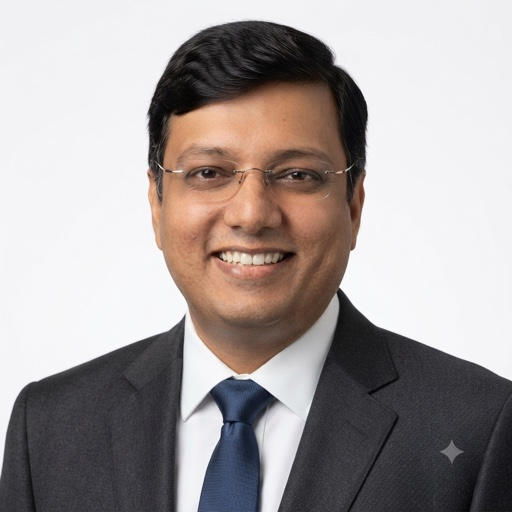
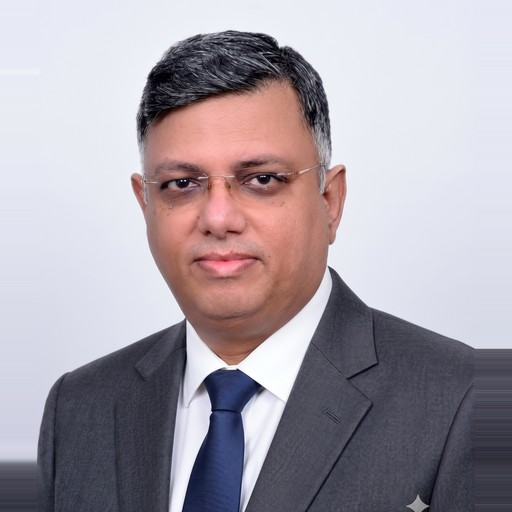
leadership image part 2

diff --git a/outputs/ai-landing-v1/src/data/siteContent.js b/outputs/ai-landing-v1/src/data/siteContent.js
@@ -347,13 +347,20 @@ export const leadership = {
     { name: 'Shankar Rachakonda',          role: 'CEO',                                                                                     photo: '/images/leadership/shankar-rachakonda.jpg' },
     { name: 'Sandeep Sawhney',             role: 'Chief Growth Officer',                                                                     photo: '/images/leadership/sandeep-sawhney.jpg' },
     { name: 'Srinivas Chamarthi',          role: 'SVP & Business Head - Commercial Markets',                                                photo: '/images/leadership/srinivas-chamarthi.jpg' },
-    { name: 'Srinivas Punnamaraju',        role: 'Senior Vice President, State, Local and Education Markets',                                photo: '/images/leadership/srinivas-punnamaraju.jpg' },
-    { name: 'Gil Tadmor',                  role: 'Senior Vice President, Federal Market',                                                    photo: '/images/leadership/gil-tadmor.jpg' },
-    { name: 'Nari Vemuru',                 role: 'Senior Vice President, Client Operations',                                                 photo: '/images/leadership/nari-vemuru.jpg' },
-    { name: 'Balaram Dandu',               role: 'Senior Vice President, Corporate Operations',                                              photo: '/images/leadership/balaram-dandu.jpg' },
-    { name: 'Prafull Kumar',               role: 'Vice President | Global Head of AI & Digital Transformation',                             photo: '/images/leadership/prafull-kumar.jpg' },
-    { name: 'Arun Srinivasan Thiruvengadam', role: 'Executive Director, Solutions and Business Development',                                 photo: '/images/leadership/arun-thiruvengadam.jpg' },
-    { name: 'Vish Tatavarthy',             role: 'Senior Director, Delivery and Growth (DoW and HHS)',                                       photo: '/images/leadership/vish-tatavarthy.jpg' },
+    { name: 'Srinivas Punnamaraju',        role: 'Senior Vice President - State, Local and Education Markets',                                photo: '/images/leadership/srinivas-punnamaraju.jpg' },
+    { name: 'Gil Tadmor',                  role: 'Senior Vice President - Tracklynk',                                                    photo: '/images/leadership/gil-tadmor.jpg' },
+    { name: 'Nari Vemuru',                 role: 'Senior Vice President - Client Operations and Federal Market',                                                 photo: '/images/leadership/nari-vemuru.jpg' },
+    { name: 'Balaram Dandu',               role: 'Senior Vice President - Corporate Operations',                                              photo: '/images/leadership/balaram-dandu.jpg' },
+    { name: 'Prafull Kumar',               role: 'Vice President - Global Head of AI & Digital Transformation',                             photo: '/images/leadership/prafull-kumar.jpg' },
+    { name: 'Arun Srinivasan Thiruvengadam', role: 'Executive Director - Solutions and Business Development',                                 photo: '/images/leadership/arun-thiruvengadam.jpg' },
+    // Designations pending — the card omits the role line while `role` is empty
+    { name: 'Lam Huynh',                   role: 'Practice Director - Digital Experience', photo: '/images/leadership/lam-huynh.jpg?v=2' },
+    { name: 'Elizabeth A. Holland',        role: 'UX Research Manager - Digital Experience', photo: '/images/leadership/elizabeth-holland.jpg?v=2' },
+    // Placeholders — no photo yet; the card shows a silhouette while `photo` is null
+    { name: 'Umarani Rudravarjula',        role: 'Practice Director - Applications Development and Integration', photo: null },
+    { name: 'Rama Kandarpa',               role: 'Practice Director - Data Engineering', photo: '/images/leadership/rama-kandarpa.jpg' },
+    { name: 'Alek Nedelkovski',            role: 'Manager - Learning and Development', photo: '/images/leadership/alek-nedelkovski.jpg' },
+    { name: 'Subba Rao Kambhampalli',      role: 'Associate Director - Applications Development and Integration',                                                                    photo: null },
   ],
 }
 

diff --git a/outputs/ai-landing-v1/src/components/home/Leadership.jsx b/outputs/ai-landing-v1/src/components/home/Leadership.jsx
@@ -1,5 +1,6 @@
 import { useRef } from 'react'
 import { motion, useInView } from 'framer-motion'
+import { User } from 'lucide-react'
 import { leadership } from '../../data/siteContent.js'
 
 const COLS = 5
@@ -48,9 +49,9 @@ export default function Leadership() {
         </motion.div>
 
         {/* ── Portrait grid ── */}
-        {/* 2 and 5 are the only counts that divide 10 evenly — no orphan row
-            at any breakpoint, and the portraits never get cramped */}
-        <div className="grid grid-cols-2 lg:grid-cols-5 gap-4 md:gap-5 lg:gap-6">
+        {/* 2-up below lg, 5-up from lg. Flex rather than grid so a short last
+            row (e.g. 12 people = 5 + 5 + 2) sits centred instead of hanging left */}
+        <div className="flex flex-wrap justify-center gap-4 md:gap-5 lg:gap-6">
           {leadership.people.map((person, i) => (
             <motion.article
               key={person.name}
@@ -62,19 +63,27 @@ export default function Leadership() {
                 // Ripple across each row, then down to the next
                 delay: 0.12 + (i % COLS) * 0.07 + Math.floor(i / COLS) * 0.12,
               }}
-              className="portrait-card"
+              className="portrait-card !h-auto w-[calc((100%-1rem)/2)] md:w-[calc((100%-1.25rem)/2)] lg:w-[calc((100%-6rem)/5)]"
             >
               <div className="portrait-frame">
-                <img
-                  src={person.photo}
-                  alt={`${person.name}, ${person.role}`}
-                  width={512}
-                  height={512}
-                  loading="lazy"
-                  decoding="async"
-                  className="portrait-img"
-                />
-                <div className="portrait-duotone" aria-hidden="true" />
+                {person.photo ? (
+                  <>
+                    <img
+                      src={person.photo}
+                      alt={person.role ? `${person.name}, ${person.role}` : person.name}
+                      width={512}
+                      height={512}
+                      loading="lazy"
+                      decoding="async"
+                      className="portrait-img"
+                    />
+                    <div className="portrait-duotone" aria-hidden="true" />
+                  </>
+                ) : (
+                  <div className="portrait-placeholder" aria-hidden="true">
+                    <User strokeWidth={1} />
+                  </div>
+                )}
                 <div className="portrait-scrim" aria-hidden="true" />
                 <div className="portrait-sheen" aria-hidden="true" />
               </div>
@@ -83,10 +92,14 @@ export default function Leadership() {
                 <h3 className="portrait-name font-display font-bold text-text-primary leading-snug text-[13px] lg:text-sm">
                   {person.name}
                 </h3>
-                <span className="portrait-rule" aria-hidden="true" />
-                <p className="portrait-role text-[11px] leading-snug">
-                  {person.role}
-                </p>
+                {person.role && (
+                  <>
+                    <span className="portrait-rule" aria-hidden="true" />
+                    <p className="portrait-role text-[11px] leading-snug">
+                      {person.role}
+                    </p>
+                  </>
+                )}
               </div>
             </motion.article>
           ))}

diff --git a/outputs/ai-landing-v1/src/styles/globals.css b/outputs/ai-landing-v1/src/styles/globals.css
@@ -319,6 +319,24 @@
     transform: scale(1.055);
   }
 
+  /* Photo pending — same backdrop value as a duotoned studio shot, with a
+     silhouette where the subject would sit */
+  .portrait-placeholder {
+    position: absolute;
+    inset: 0;
+    display: flex;
+    align-items: center;
+    justify-content: center;
+    background: linear-gradient(155deg, #A9B9D6 0%, #9DBBC6 55%, #A8BBA0 100%);
+    color: #0B2A4A;
+  }
+  .portrait-placeholder svg {
+    width: 72%;
+    height: 72%;
+    opacity: 0.5;
+    transform: translateY(-4%);
+  }
+
   /* Duotone — unifies every backdrop onto the brand ramp */
   .portrait-duotone {
     position: absolute;

diff --git a/logs/PROJECT_LOG.md b/logs/PROJECT_LOG.md
@@ -935,3 +935,251 @@ Not corrected in this change: the fix would mean enlarging Prafull, which partly
 **Known artifact:** this source also carries the Gemini ✦ watermark in the lower right, inside the visible crop. It is faint under the scrim, like the others.
 
 **Status:** ⚠ SUCCESS pending identity confirmation. Open: Nari identity, Prafull shoulder offset, Gemini watermark.
+
+## 2026-10-09 — Leadership section: new photo for Arun Srinivasan Thiruvengadam
+
+**Change:** `public/images/leadership/arun-thiruvengadam.jpg` replaced with a new studio photo supplied by Raima (1824×2346 source).
+
+**Processing:**
+- Source is portrait and shot close: at full width (512-space) the crown sits at 37 and the shoulder line at 433, well below row 2, with a head noticeably larger than his neighbours'.
+- Placed at 0.86× with the crown at 30px, using the full-height source so the lower frame is real jacket rather than fill. Top margin (2px) and the side fill are edge-replicated; the side fill falls outside the 4:5 crop.
+
+**Result:** crown 30, shoulder line 371. Row 2 by the same measure: Nari 351, Balaram 374, Prafull 330, Vish 384. The previous Arun photo measured 352.
+
+**Verification:** 10 files, all distinct by MD5; screenshots captured at desktop, tablet, and mobile (`screenshots/*/leadership-arun.png`). Dev server restarted on 127.0.0.1:5179.
+
+**Known artifact:** this source also carries the Gemini ✦ watermark in the lower right, inside the visible crop, faint under the scrim.
+
+**Status:** ✅ SUCCESS — open: Gil and Nari identity confirmation, Prafull shoulder offset, Gemini watermark.
+
+## 2026-10-09 — Leadership section: Lam Huynh and Elizabeth Holland added
+
+**Change:** two people appended to `leadership.people` in `src/data/siteContent.js`, with new portraits `public/images/leadership/lam-huynh.jpg` and `elizabeth-holland.jpg`. Names and photos only; `role` is an empty string for both until Raima supplies designations.
+
+**Photo processing** (sources: Lam 512×512 on a grey-blue backdrop, Elizabeth 480×640 against a blurred office):
+- Subjects cut out with rembg (`birefnet-portrait` model, run locally) and composited onto a flat near-white backdrop (246,247,249). Mattes checked against magenta; hair edges are clean on both. Only the background was replaced — no pixels of either person were generated or retouched.
+- Lam: placed at 1.05× with the crown at 30px. A zoom-in, so a pure crop.
+- Elizabeth: placed at 0.87× (of source pixels), top-aligned. Her hair runs off the top edge of the source, so there is no headroom to give her without inventing hair; she is the one portrait with none. Side fill falls outside the 4:5 crop.
+- Neither source carries the Gemini ✦ watermark.
+
+**Layout** (`src/components/home/Leadership.jsx`):
+- 12 people at 5-up leaves a row of 2. The grid is now a centred flex-wrap with the same column widths and gaps (2-up below lg, 5-up from lg), so the short last row sits centred instead of hanging left. Rows 1 and 2 are unchanged.
+- Cards take `!h-auto` so flex stretch keeps every card in a row the same height (the `.portrait-card` rule's `height: 100%` only worked under grid).
+- When `role` is empty the accent rule and role line are not rendered, and the image alt text is the name alone.
+
+**Verification:** 12 cards in the DOM; per-row card heights equal at desktop (404 / 406 / 354); 12 image files, all distinct by MD5; screenshots at desktop, tablet, and mobile (`screenshots/*/leadership-12.png`).
+
+**Status:** ✅ SUCCESS — open: designations for Lam and Elizabeth, Elizabeth headroom (needs a source with space above the head), Gil and Nari identity confirmation, Prafull shoulder offset, Gemini watermark.
+
+## 2026-10-12 — Leadership section: Elizabeth Holland zoomed out
+
+**Trigger:** Raima flagged Elizabeth's portrait as too zoomed in.
+
+**Change:** `public/images/leadership/elizabeth-holland.jpg` re-rendered from the same cut-out at 0.76× of source pixels (was 0.87×), with the crown at 28px instead of touching the top edge. Head size and headroom now match Lam beside her and the rows above.
+
+**Synthesised pixels (small, disclosed):**
+- *Crown.* Measuring the matte showed the source frame cuts only ~4px off the top of her hair (69px wide at the top row), not the larger amount assumed in the previous entry. That sliver is closed by stretching the top 40 rows of those columns upward along a parabola (max 4.5px), with the end slope matched to the real outline and an anti-aliased edge.
+- *Shoulders.* At this scale the photo is 365px wide, so ~23px of fill is visible on each side of the 4:5 crop. It continues each shoulder's downward slope from the edge column (black blazer on white), and sits under the card's scrim.
+- No other pixels of her are altered.
+
+**Verification:** close-up at 2× and screenshots at desktop, tablet, and mobile (`screenshots/*/leadership-12.png`); 12 files, all distinct by MD5.
+
+**Status:** ✅ SUCCESS — the "Elizabeth headroom" open item from the previous entry is closed. Open: designations for Lam and Elizabeth, Gil and Nari identity confirmation, Prafull shoulder offset, Gemini watermark.
+
+## 2026-10-12 — Leadership section: designations use a hyphen separator
+
+**Change:** `src/data/siteContent.js` — seven roles changed to the "Title - Area" pattern already used for Srinivas Chamarthi ("SVP & Business Head - Commercial Markets"). The comma after the title (and the "|" in Prafull Kumar's) becomes " - ". Wording is otherwise unchanged; CEO and Chief Growth Officer have no area and are untouched.
+
+**Verification:** role text read back from the DOM (`.portrait-role`) and matches.
+
+**Status:** ✅ SUCCESS
+
+## 2026-10-12 — Leadership section: cache-bust Elizabeth Holland's portrait
+
+**Trigger:** Raima's screenshot still showed the earlier, tighter crop (hair touching the top edge) after the zoomed-out file was in place.
+
+**Cause:** the file on disk and the one the dev server serves are identical (MD5 match), so the browser was showing a cached copy of the same filename.
+
+**Change:** `src/data/siteContent.js` — photo path is now `/images/leadership/elizabeth-holland.jpg?v=2`, so the browser fetches it fresh. Image file unchanged.
+
+**Verification:** fresh-browser screenshot shows her with headroom matching Lam's.
+
+**Status:** ✅ SUCCESS
+
+## 2026-10-13 — Leadership section: Nari Vemuru title updated, Vish Tatavarthy removed
+
+**Changes** (`src/data/siteContent.js`):
+- Nari Vemuru's role: "Senior Vice President - Client Operations" → "Senior Vice President - Client Operations and Federal Market".
+- Vish Tatavarthy's entry removed. His portrait `public/images/leadership/vish-tatavarthy.jpg` is deleted as it is no longer referenced; recoverable from git.
+
+**Layout effect:** 11 people. Desktop: 5 + 5 + 1, with Lam Huynh moving up into row 2 and Elizabeth Holland alone and centred in row 3. Tablet and mobile (2-up): Elizabeth alone and centred in the last row.
+
+**Note:** Gil Tadmor's role is still "Senior Vice President - Federal Market", so "Federal Market" now appears in two titles. Left as is pending confirmation.
+
+**Verification:** 11 cards in the DOM; names and Nari's role read back and match; no remaining references to Vish in `src/`; screenshots at desktop, tablet, and mobile (`screenshots/*/leadership-11.png`).
+
+**Status:** ✅ SUCCESS
+
+## 2026-10-13 — Leadership section: four placeholders added, Gil Tadmor title updated
+
+**Changes:**
+- `src/data/siteContent.js` — Gil Tadmor's role: "Senior Vice President - Federal Market" → "Senior Vice President - Tracklynk". This also resolves the duplicate "Federal Market" noted in the previous entry.
+- `src/data/siteContent.js` — four entries appended with `photo: null` and an empty role: Uma Rani, RK, Alek, Subba Rao.
+- `src/components/home/Leadership.jsx` — when `photo` is null the card renders a `.portrait-placeholder` (Lucide `User` silhouette) instead of the image and duotone layer.
+- `src/styles/globals.css` — `.portrait-placeholder` styles; backdrop tuned to the value of a duotoned studio shot so the cards sit level with the rest under the scrim.
+
+**Layout:** 15 people, 5 + 5 + 5 on desktop. Row 3: Elizabeth Holland · Uma Rani · RK · Alek · Subba Rao. Tablet and mobile (2-up) end with Subba Rao alone and centred.
+
+**Verification:** 15 cards in the DOM, three rows at desktop, no page errors; names and Gil's role read back and match; screenshots at desktop, tablet, and mobile (`screenshots/*/leadership-15.png`).
+
+**Status:** ✅ SUCCESS — open: photos, full names and designations for the four placeholders; designations for Lam and Elizabeth.
+
+## 2026-10-13 — Leadership section: placeholder renamed to Alek Nedelkovski
+
+**Change:** `src/data/siteContent.js` — placeholder name "Alek" → "Alek Nedelkovski". Photo and designation still pending.
+
+**Verification:** dev server serves the updated name.
+
+**Status:** ✅ SUCCESS
+
+## 2026-10-13 — Leadership section: placeholder renamed to Rama Kandarpa
+
+**Change:** `src/data/siteContent.js` — placeholder name "RK" → "Rama Kandarpa". Photo and designation still pending.
+
+**Verification:** dev server serves the updated name.
+
+**Status:** ✅ SUCCESS
+
+## 2026-10-13 — Leadership section: placeholder renamed to Subba Rao Kambhampalli
+
+**Change:** `src/data/siteContent.js` — placeholder name "Subba Rao" → "Subba Rao Kambhampalli". Photo and designation still pending.
+
+**Verification:** dev server serves the updated name.
+
+**Status:** ✅ SUCCESS
+
+## 2026-10-13 — Leadership section: Subba Rao Kambhampalli designation added
+
+**Change:** `src/data/siteContent.js` — role set to "Associate Director" (was empty). Photo still pending.
+
+**Verification:** role text read back from the DOM.
+
+**Status:** ✅ SUCCESS
+
+## 2026-10-13 — Leadership section: placeholder renamed to Umarani Rudravarju
+
+**Change:** `src/data/siteContent.js` — placeholder name "Uma Rani" → "Umarani Rudravarju". Photo and designation still pending.
+
+**Verification:** dev server serves the updated name.
+
+**Status:** ✅ SUCCESS
+
+## 2026-10-13 — Leadership section: Umarani Rudravarju designation added
+
+**Change:** `src/data/siteContent.js` — role set to "Practice Director - Information Technology" (was empty). Photo still pending.
+
+**Verification:** role text read back from the DOM.
+
+**Status:** ✅ SUCCESS
+
+## 2026-10-13 — Leadership section: Alek Nedelkovski designation added
+
+**Change:** `src/data/siteContent.js` — role set to "Manager - Learning and Development" (was empty). Photo still pending.
+
+**Verification:** role text read back from the DOM.
+
+**Status:** ✅ SUCCESS
+
+## 2026-10-13 — Leadership section: Lam Huynh designation added
+
+**Change:** `src/data/siteContent.js` — role set to "Practice Director - Digital Experience" (was empty).
+
+**Verification:** role text read back from the DOM.
+
+**Status:** ✅ SUCCESS
+
+## 2026-10-13 — Leadership section: Elizabeth A. Holland name and designation
+
+**Change:** `src/data/siteContent.js` — name "Elizabeth Holland" → "Elizabeth A. Holland" (as Raima wrote it); role set to "UX Research Manager - Digital Experience" (was empty).
+
+**Verification:** name and role read back from the DOM.
+
+**Status:** ✅ SUCCESS — open: designation for Rama Kandarpa; photos for the four placeholders.
+
+## 2026-10-14 — Leadership section: Umarani Rudravarju designation changed
+
+**Change:** `src/data/siteContent.js` — role "Practice Director - Information Technology" → "Practice Director - Applications Development and Integration".
+
+**Verification:** role text read back from the DOM.
+
+**Status:** ✅ SUCCESS
+
+## 2026-10-14 — Leadership section: Rama Kandarpa designation added
+
+**Change:** `src/data/siteContent.js` — role set to "Practice Director - Data Engineering" (was empty). Every card now has a designation. Photo still pending.
+
+**Verification:** role text read back from the DOM.
+
+**Status:** ✅ SUCCESS — open: photos for Umarani Rudravarju, Rama Kandarpa, Alek Nedelkovski, Subba Rao Kambhampalli.
+
+## 2026-10-14 — Leadership section: Subba Rao Kambhampalli designation extended
+
+**Change:** `src/data/siteContent.js` — role "Associate Director" → "Associate Director - Applications Development and Integration".
+
+**Verification:** role text read back from the DOM.
+
+**Status:** ✅ SUCCESS
+
+## 2026-10-14 — Leadership section: Umarani Rudravarjula surname corrected
+
+**Change:** `src/data/siteContent.js` — name "Umarani Rudravarju" → "Umarani Rudravarjula".
+
+**Verification:** name read back from the DOM.
+
+**Status:** ✅ SUCCESS
+
+## 2026-10-14 — Leadership section: photo added for Alek Nedelkovski
+
+**Change:** new `public/images/leadership/alek-nedelkovski.jpg` (from a 1024×1024 studio photo supplied by Raima); his entry in `src/data/siteContent.js` now points to it instead of `photo: null`, so the placeholder silhouette is replaced.
+
+**Brief:** head size proportionate to the other portraits, shoulder line consistent with the rest.
+
+**Reference set** (512-space; crown / shoulder line / head width, men only for head width): shoulders 324–381, median ~345; head widths 186–216, median ~198; crowns mostly 26–30.
+
+**Processing:**
+- At scale 1: crown 11, shoulder 393, head 236 — head ~19% larger than the median and shoulders below the range.
+- 0.85× matched the head (201) but left shoulders at 385, still below the range: his shoulders slope steeply, so the 75%-coverage row sits low.
+- Chosen: **0.82× with the crown at 28**. Head 194 (≈ median), shoulder 370 (inside the range, alongside Arun 371 and Balaram 374), crown 28.
+- Fill: 46px each side (outside the 4:5 crop, which starts at 51); 23px of clean white backdrop at the top; the bottom ~73 rows extend shirt, tie and jacket straight down, under the card's scrim.
+
+**Known artifact:** the source carries the Gemini ✦ watermark in the lower right, inside the visible crop, faint under the scrim, as on the other studio shots.
+
+**Verification:** desktop close-up at 2× including hover state; 12 image files, all distinct by MD5.
+
+**Status:** ✅ SUCCESS — open: photos for Umarani Rudravarjula, Rama Kandarpa, Subba Rao Kambhampalli; Gemini watermark.
+
+## 2026-10-14 — Leadership section: photo added for Rama Kandarpa
+
+**Change:** new `public/images/leadership/rama-kandarpa.jpg` (from a 1024×1032 studio photo supplied by Raima); his entry in `src/data/siteContent.js` now points to it instead of `photo: null`.
+
+**Processing:** squared by cropping 8px off the bottom, then resized to 512. No scaling or placement needed: at scale 1 the source already measures crown 25, shoulder line 354, head width 196, against the set's medians of ~30 / ~345 / ~198. No synthesised pixels.
+
+**Known artifact:** Gemini ✦ watermark in the lower right, faint under the scrim, as on the other studio shots.
+
+**Verification:** row 3 captured at 2× on desktop; 13 image files, all distinct by MD5.
+
+**Status:** ✅ SUCCESS — open: photos for Umarani Rudravarjula and Subba Rao Kambhampalli; Gemini watermark.
+
+## 2026-10-14 — Leadership section: new front-facing photo for Lam Huynh
+
+**Change:** `public/images/leadership/lam-huynh.jpg` replaced with a new front-facing studio photo supplied by Raima (1024×1024, white backdrop), following the earlier request to have him face the camera. The previous cut-out version is recoverable from git history once committed, or from this session's earlier entry. Photo path in `src/data/siteContent.js` is now `lam-huynh.jpg?v=2` so browsers fetch the new file rather than a cached copy.
+
+**Processing:** at scale 1 the source measured crown 33, shoulder line 354, head width 186 (low end of the set's 186–216). Placed at 1.04× with the crown at 30px. A zoom-in, so a pure crop with no synthesised pixels; the backdrop is already white, so no cut-out was needed.
+
+**Result:** crown 30, shoulder line 362, head width 192. Row 2 by the same measure: Nari 351, Balaram 374, Prafull 330, Arun 371.
+
+**Known artifact:** Gemini ✦ watermark in the lower right, faint under the scrim.
+
+**Verification:** row 2 captured at 2× on desktop.
+
+**Status:** ✅ SUCCESS — open: photos for Umarani Rudravarjula and Subba Rao Kambhampalli; Gemini watermark.
